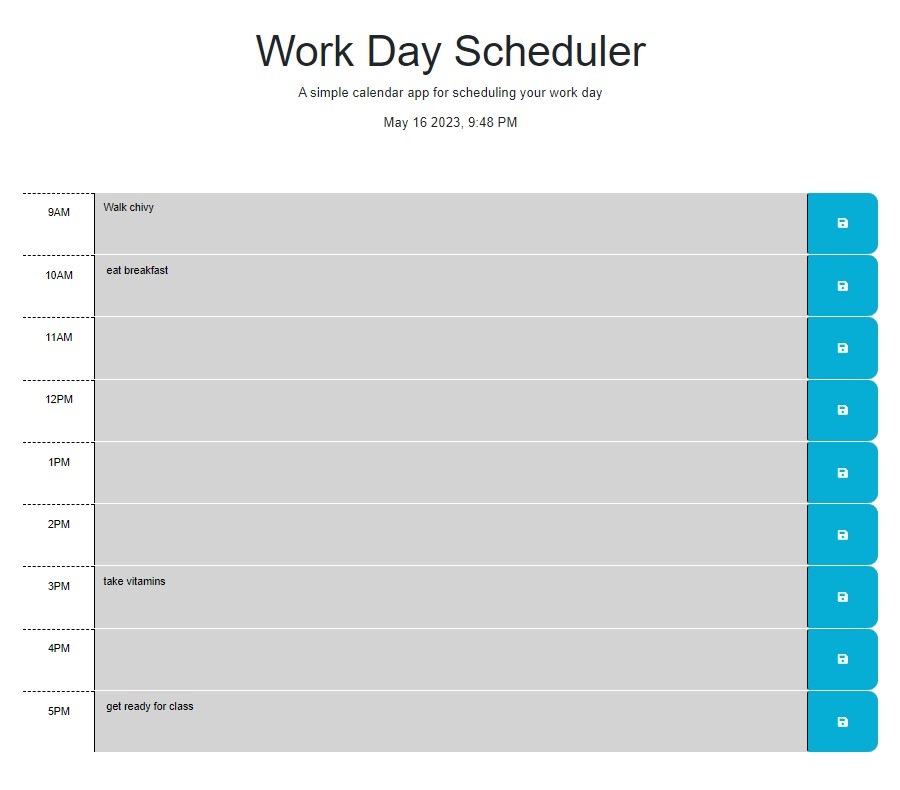
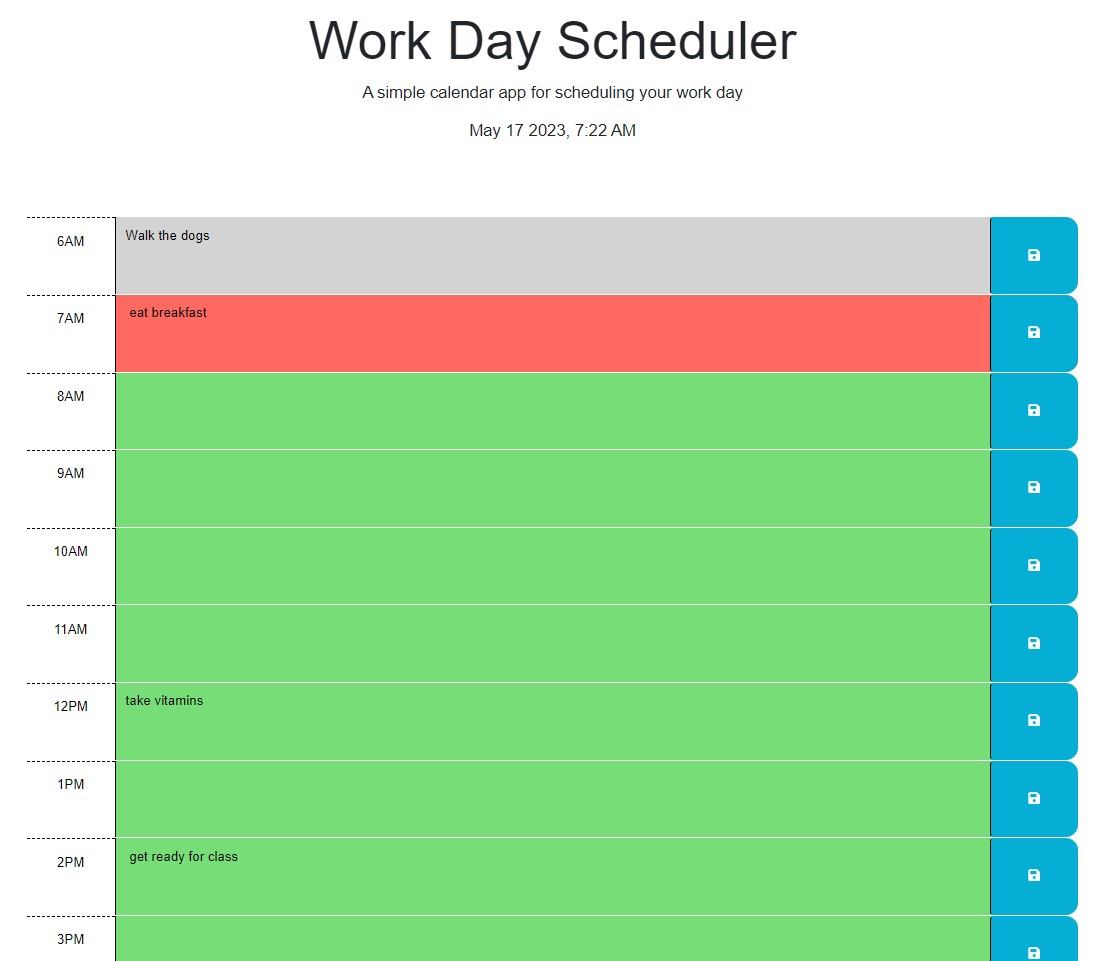
final

diff --git a/Assets/js/script.js b/Assets/js/script.js
@@ -12,6 +12,9 @@ getStore();
 
 currentDay.innerHTML = time.format("MMM D YYYY, h:mm A ");
 const hours = [
+  "6AM",
+  "7AM",
+  "8AM",
   "9AM",
   "10AM",
   "11AM",
@@ -25,7 +28,7 @@ const hours = [
 
 hours.forEach((hour, i) => {
   let cH = time.format("H");
-  let rH = i + 9;
+  let rH = i + 6;
 
   main.innerHTML += `
   <div id="hour-9" class="row time-block ${

diff --git a/README.md b/README.md
@@ -10,7 +10,7 @@ There are no installations for this assignment.
 
 ## Usage
 
-![app](assets/images/DeployedWeb2.jpg)
+![app](assets/images/Deployedweb.jpg)
 
 ## Links
 
